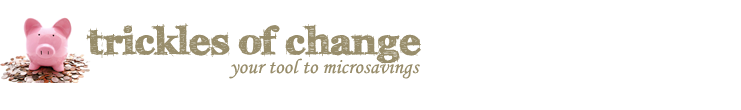
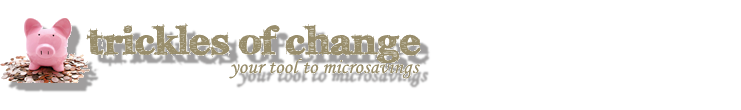
ga stuff

Changed region(s): [[0.0, 0.2182, 0.5897, 0.8455]]

diff --git a/public/stylesheets/custom.css b/public/stylesheets/custom.css
@@ -36,10 +36,24 @@ input, textarea{
   height:120px;
 }
 
-#header img {
-  background: #fff;
+img {
   border:0px;
 }
+
+#social{
+    position:absolute;
+    right:0;
+    top:50%;
+    padding:10px 0px 10px 0px;
+    background: url('http://t3.gstatic.com/images?q=tbn:ANd9GcTovSd7hEKQPmwj6-3o_nAHCckoP1ZEK4K-GOOy4Zpd6k__hzI&t=1&usg=__6w2EkVLr9A8z27r6H4Znw03dz7s=') repeat scroll 0 0 #CC9900;  
+    border: medium double;
+}
+
+#social ul li{
+  list-style-type: none;    
+}
+
+
 
 label{
     font-weight:normal;
@@ -112,7 +126,6 @@ logo{
   padding: 0 5px;
   font-weight: bold;
 }
-
 
 /*index page*/
 
